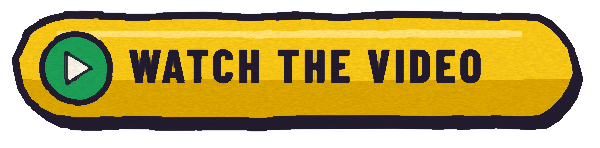
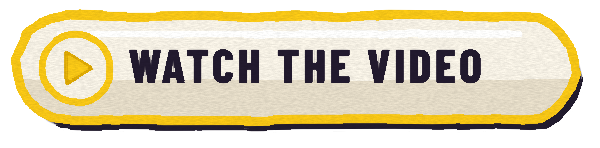
Painted diagrams, cream video button, new limitations text

diff --git a/README.md b/README.md
@@ -302,7 +302,7 @@ On my real mouse, every turn settled within ±1.7 degrees of its target. The pir
 
 My sprint still stops and spins at every corner. The top sprint bonus needs 0.30 m/s, and my best safe result is about 0.21 m/s. Getting there needs smooth turns at speed, which needs better position sensing at the corners. The forward speed is also open loop, so it changes with the battery level.
 
-I have an experimental version that reads side walls while driving past each cell and maps a whole corridor from one front reading. In the simulator it cuts the mission time from 53.0 s to 40.4 s. It does not raise the grade, because the speedup bonus compares the sprint with exploring. My next steps are closed-loop wheel speed control, smooth turns while exploring, and combining the gyro and wheel angles during turns.
+I have an experimental version that reads side walls while driving past each cell and maps a whole corridor from one front reading. In the simulator it cuts the mission time from 53.0 s to 40.4 s. It does not raise the grade so I chose to rest after completing this hell rid-, I mean very fun engineering project :). So perhaps in the future, smooth turns while exploring, and combining the gyro and wheel angles during turns is worth improving.
 
 ## Repo structure
 

diff --git a/docs/images/README.md b/docs/images/README.md
@@ -7,10 +7,10 @@ The originals live in [`media/`](../../media/), numbered in the order they happe
 | 1. The parts | `1.disassembled.jpeg` | `fig1_parts.webp` |
 | 2. Putting it together | `2.assembled.jpeg` | `fig2_assembled.webp` |
 | 3. Understanding how the mouse works | `3.late_night_group.jpeg` | `fig3_group_night.webp` |
-| 4. Training for the square | `4.training_square.jpeg` | `fig4_training_square.webp` |
+| 4. Training for the first task | `4.training_square.jpeg` | `fig4_training_square.webp` |
 | 5. Completing the square | `5.square.mp4` | `fig5_square.webp` (moving preview) |
-| 6. A damaged mouse | `6.damaged_mouse.mp4` | `fig6_damaged_mouse.webp` (moving preview) |
-| 7. Learning to search the maze | `7.maze_running_circles.mp4` | `fig7_running_circles.webp` (moving preview) |
+| 6. A kit update | `6.damaged_mouse.mp4` | `fig6_damaged_mouse.webp` (moving preview) |
+| 7. Learning the maze | `7.maze_running_circles.mp4` | `fig7_running_circles.webp` (moving preview) |
 | 8. The final demo | `8.final_demo.mp4` | `fig8_final_demo.webp` (moving preview) |
 | 9. Simulator run | | `06_simulator_run.png` |
 
